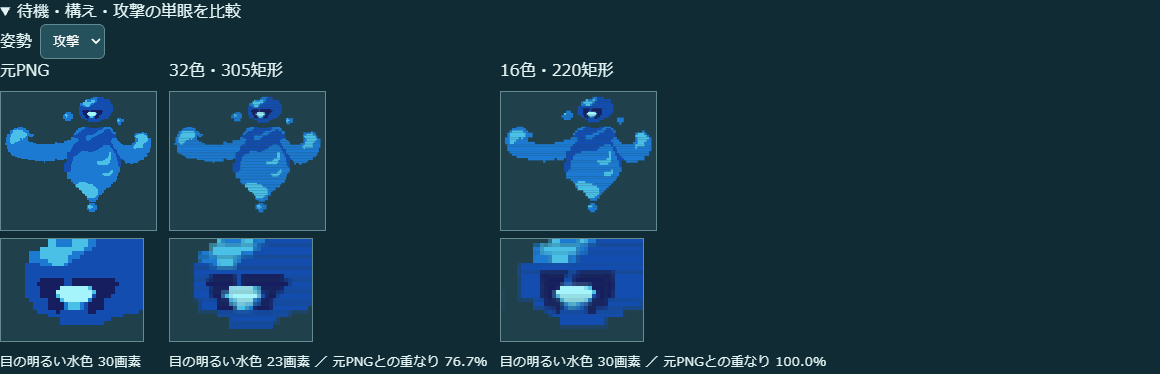
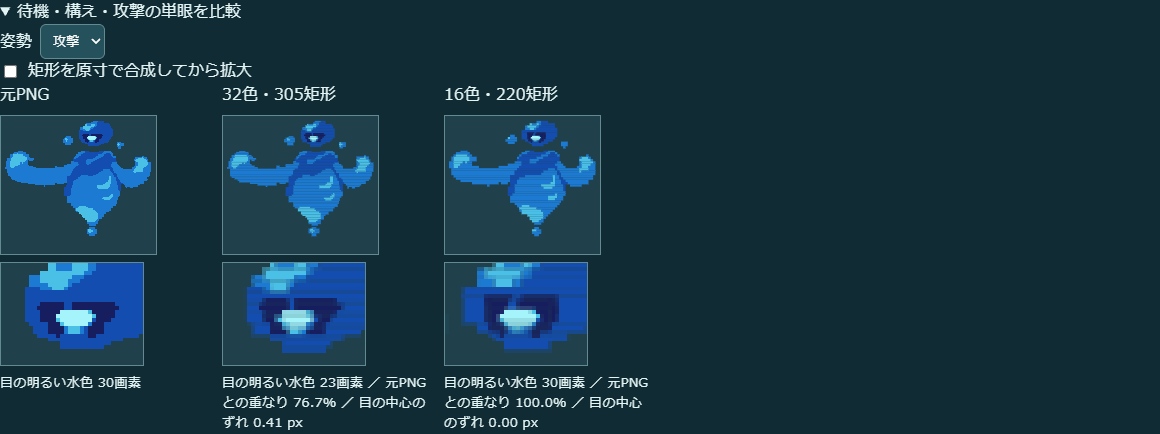
Compare native-grid single eyes across both lake legends and their three poses

diff --git a/map-art.html b/map-art.html
@@ -1,5 +1,5 @@
 <!doctype html><html lang="ja"><meta charset="utf-8"><meta name="viewport" content="width=device-width,initial-scale=1"><title>マップとキャラクターの配置プレビュー</title>
-<style>[hidden]{display:none!important}body{margin:20px;background:#102b33;color:#e3f4f4;font:16px sans-serif}a{color:#94e8e5}header,.controls{display:flex;gap:16px;align-items:center;flex-wrap:wrap}h1{font-size:24px}select{min-width:0}select,button{padding:8px;background:#24515b;color:white;border:1px solid #638991;border-radius:6px;max-width:100%}label{max-width:100%;min-width:0;display:flex;gap:8px;align-items:center;flex-wrap:wrap}main{display:grid;grid-template-columns:repeat(auto-fit,minmax(min(100%,480px),1fr));gap:16px}figure{margin:16px 0}canvas{width:100%;image-rendering:pixelated;border:1px solid #638991;box-sizing:border-box}figcaption{margin-bottom:8px}.note{color:#b4d3d5}input{max-width:100%;min-width:0}#placements{display:flex;gap:8px;flex-wrap:wrap}#placements button{padding:8px;background:#193c45;border-radius:6px}button[aria-pressed="true"]{outline:2px solid #ffe08a}button:disabled{opacity:.5}.detail-source{position:relative}.detail-source canvas{display:block}.detail-marker{position:absolute;width:8.333333%;height:8.333333%;box-sizing:border-box;border:1px solid white;box-shadow:0 0 0 1px #18313b;pointer-events:none}#sceneryDetail{margin:12px 0}#sceneryDetail summary{cursor:pointer}.detail-pair{display:grid;grid-template-columns:repeat(2,minmax(0,320px));gap:12px}.detail-pair canvas{display:block}#spriteProfileTable{border-collapse:collapse;margin:8px 0}#spriteProfileTable th,#spriteProfileTable td{padding:4px 8px;text-align:right;border-bottom:1px solid #41646c}#spriteProfileTable th:first-child{text-align:left}.eye-crops{display:flex;flex-wrap:wrap;gap:12px}.eye-crops figure{margin:0}.eye-crops canvas{width:144px;height:104px;background:#20414b}#spriteComparisonStrip{display:grid;grid-template-columns:repeat(auto-fit,minmax(min(115px,100%),1fr));gap:8px}#spriteComparisonStrip figure{min-width:0;margin:0}#spriteComparisonStrip canvas{display:block;width:100%;height:108px;object-fit:contain;image-rendering:pixelated;background:#203d47}#spriteComparisonStrip figcaption{font-size:.85rem}</style>
+<style>[hidden]{display:none!important}body{margin:20px;background:#102b33;color:#e3f4f4;font:16px sans-serif}a{color:#94e8e5}header,.controls{display:flex;gap:16px;align-items:center;flex-wrap:wrap}h1{font-size:24px}select{min-width:0}select,button{padding:8px;background:#24515b;color:white;border:1px solid #638991;border-radius:6px;max-width:100%}label{max-width:100%;min-width:0;display:flex;gap:8px;align-items:center;flex-wrap:wrap}main{display:grid;grid-template-columns:repeat(auto-fit,minmax(min(100%,480px),1fr));gap:16px}figure{margin:16px 0}canvas{width:100%;image-rendering:pixelated;border:1px solid #638991;box-sizing:border-box}figcaption{margin-bottom:8px}.note{color:#b4d3d5}input{max-width:100%;min-width:0}#placements{display:flex;gap:8px;flex-wrap:wrap}#placements button{padding:8px;background:#193c45;border-radius:6px}button[aria-pressed="true"]{outline:2px solid #ffe08a}button:disabled{opacity:.5}.detail-source{position:relative}.detail-source canvas{display:block}.detail-marker{position:absolute;width:8.333333%;height:8.333333%;box-sizing:border-box;border:1px solid white;box-shadow:0 0 0 1px #18313b;pointer-events:none}#sceneryDetail{margin:12px 0}#sceneryDetail summary{cursor:pointer}.detail-pair{display:grid;grid-template-columns:repeat(2,minmax(0,320px));gap:12px}.detail-pair canvas{display:block}#spriteProfileTable{border-collapse:collapse;margin:8px 0}#spriteProfileTable th,#spriteProfileTable td{padding:4px 8px;text-align:right;border-bottom:1px solid #41646c}#spriteProfileTable th:first-child{text-align:left}.eye-crops{display:flex;flex-wrap:wrap;gap:12px}.eye-crops figure{margin:0}.eye-crops canvas{width:144px;height:104px;background:#20414b}#spriteComparisonStrip{display:grid;grid-template-columns:repeat(auto-fit,minmax(min(115px,100%),1fr));gap:8px}#spriteComparisonStrip figure{min-width:0;margin:0}#spriteComparisonStrip canvas{display:block;width:100%;height:108px;object-fit:contain;image-rendering:pixelated;background:#203d47}#spriteComparisonStrip figcaption{font-size:.85rem}.lake-eye-study details .eye-crops figure{width:min(210px,100%)}.lake-eye-study details small{display:block;line-height:1.5}</style>
 <header><h1>マップとキャラクターの配置プレビュー</h1><a href="index.html">ラボ</a><a href="enemies-art.html">敵素材</a><a href="bosses-art.html">ボス素材</a><a href="characters-art.html">旅人と同行者</a></header>
 <p>本編の仮地点・足場に、主人公・味方・敵・ボスの待機絵を重ねて比較します。背景は仮画像、本番は3Dを想定しています。ここでの配置案は戦闘やセーブには反映されません。</p>
 <div class="controls"><label>地点 <select id="node"></select></label><label>軽量設定 <select id="profile"><option value="legacy">標準</option><option value="h48c32">中間・32色</option><option value="h32c16" selected>最軽量・16色</option></select></label><label>カメラ <input id="camera" type="range" min="0" value="0" step="1"><output id="cameraValue">0</output></label></div>

diff --git a/lake-eye-study.js b/lake-eye-study.js
@@ -73,6 +73,9 @@ export function lakeEyeStudy(enemy,legend){
  const controls=document.createElement('label'),pose=document.createElement('select');
  controls.append('姿勢 ',pose);
  pose.add(new Option('待機','idle'));pose.add(new Option('構え','brace'));pose.add(new Option('攻撃','strike'));
+ const pixelLabel=document.createElement('label'),pixels=document.createElement('input');
+ pixels.type='checkbox';pixelLabel.append(pixels,'矩形を原寸で合成してから拡大');
+ const poseData=new Map([['idle',legend]]);
  const images=document.createElement('div');images.className='eye-crops';
  const status=document.createElement('p');status.setAttribute('role','status');
  let revision=0;
@@ -81,11 +84,12 @@ export function lakeEyeStudy(enemy,legend){
   images.replaceChildren();status.textContent='読み込み中';
   const name=enemy.id==='tainted-water-splitting-phantasm'?'ninianne':'vivianne';
   try{
-   let data=legend;
-   if(pose.value!=='idle'){
-    const response=await fetch('assets/field-packed/lake-'+name+'-field-'+pose.value+'-sprites-v6.json');
+   const selected=pose.value;
+   let data=poseData.get(selected);
+   if(!data){
+    const response=await fetch('assets/field-packed/lake-'+name+'-field-'+selected+'-sprites-v6.json');
     if(!response.ok)throw Error(response.status);
-    data=await response.json();
+    data=await response.json();poseData.set(selected,data);
    }
    if(ticket!==revision)return;
    const scale=legend.h/legend.box[3],bounds=spriteBounds(data,data.box[3]*scale);
@@ -95,7 +99,7 @@ export function lakeEyeStudy(enemy,legend){
     canvas.width=Math.ceil(bounds.width)+8;canvas.height=Math.ceil(bounds.height)+8;
     canvas.style.width=canvas.width+'px';canvas.style.height='auto';canvas.style.maxWidth='100%';
     const ctx=canvas.getContext('2d');ctx.imageSmoothingEnabled=false;
-    ctx.translate(4-bounds.x,canvas.height-4);paintSprite(ctx,data,legend.image,bounds,profile);
+    ctx.translate(4-bounds.x,canvas.height-4);paintSprite(ctx,data,legend.image,bounds,profile,pixels.checked);
     caption.textContent=label+(profile?'・'+rectangleCount(data.profiles[profile])+'矩形':'');
     const eye=eyePixels(canvas);
     if(!profile)reference=eye;
@@ -109,6 +113,7 @@ export function lakeEyeStudy(enemy,legend){
      for(const pixel of eye.pixels)if(reference.pixels.has(pixel))overlap++;
      const union=eye.pixels.size+reference.pixels.size-overlap;
      reading.textContent='目の明るい水色 '+eye.pixels.size+'画素'+(profile?' ／ 元PNGとの重なり '+(100*overlap/union).toFixed(1)+'%':'');
+     if(profile&&eye.pixels.size)reading.textContent+=' ／ 目の中心のずれ '+Math.hypot(eye.x-reference.x,eye.y-reference.y).toFixed(2)+' px';
      card.append(document.createElement('br'),detail,document.createElement('br'),reading);
     }
     images.append(card);
@@ -116,9 +121,17 @@ export function lakeEyeStudy(enemy,legend){
    status.textContent='';
   }catch(error){if(ticket===revision)status.textContent='姿勢の読み込みに失敗しました。 '+error.message}
  }
- pose.onchange=drawMotion;
+ const requested=new URL(location.href).searchParams;
+ if([...pose.options].some(o=>o.value===requested.get('eyePose'))){
+  pose.value=requested.get('eyePose');pixels.checked=requested.get('eyePixels')==='1';motion.open=true;
+ }
+ pose.onchange=pixels.onchange=()=>{
+  const url=new URL(location.href);url.searchParams.set('eyePose',pose.value);
+  if(pixels.checked)url.searchParams.set('eyePixels','1');else url.searchParams.delete('eyePixels');
+  history.replaceState(history.state,'',url);drawMotion();
+ };
  motion.ontoggle=()=>{if(motion.open&&!images.childElementCount)drawMotion()};
- motion.append(summary,controls,images,status);
+ motion.append(summary,controls,pixelLabel,images,status);
  section.append(title,note,strip,motion,refs);
  return section;
 }
